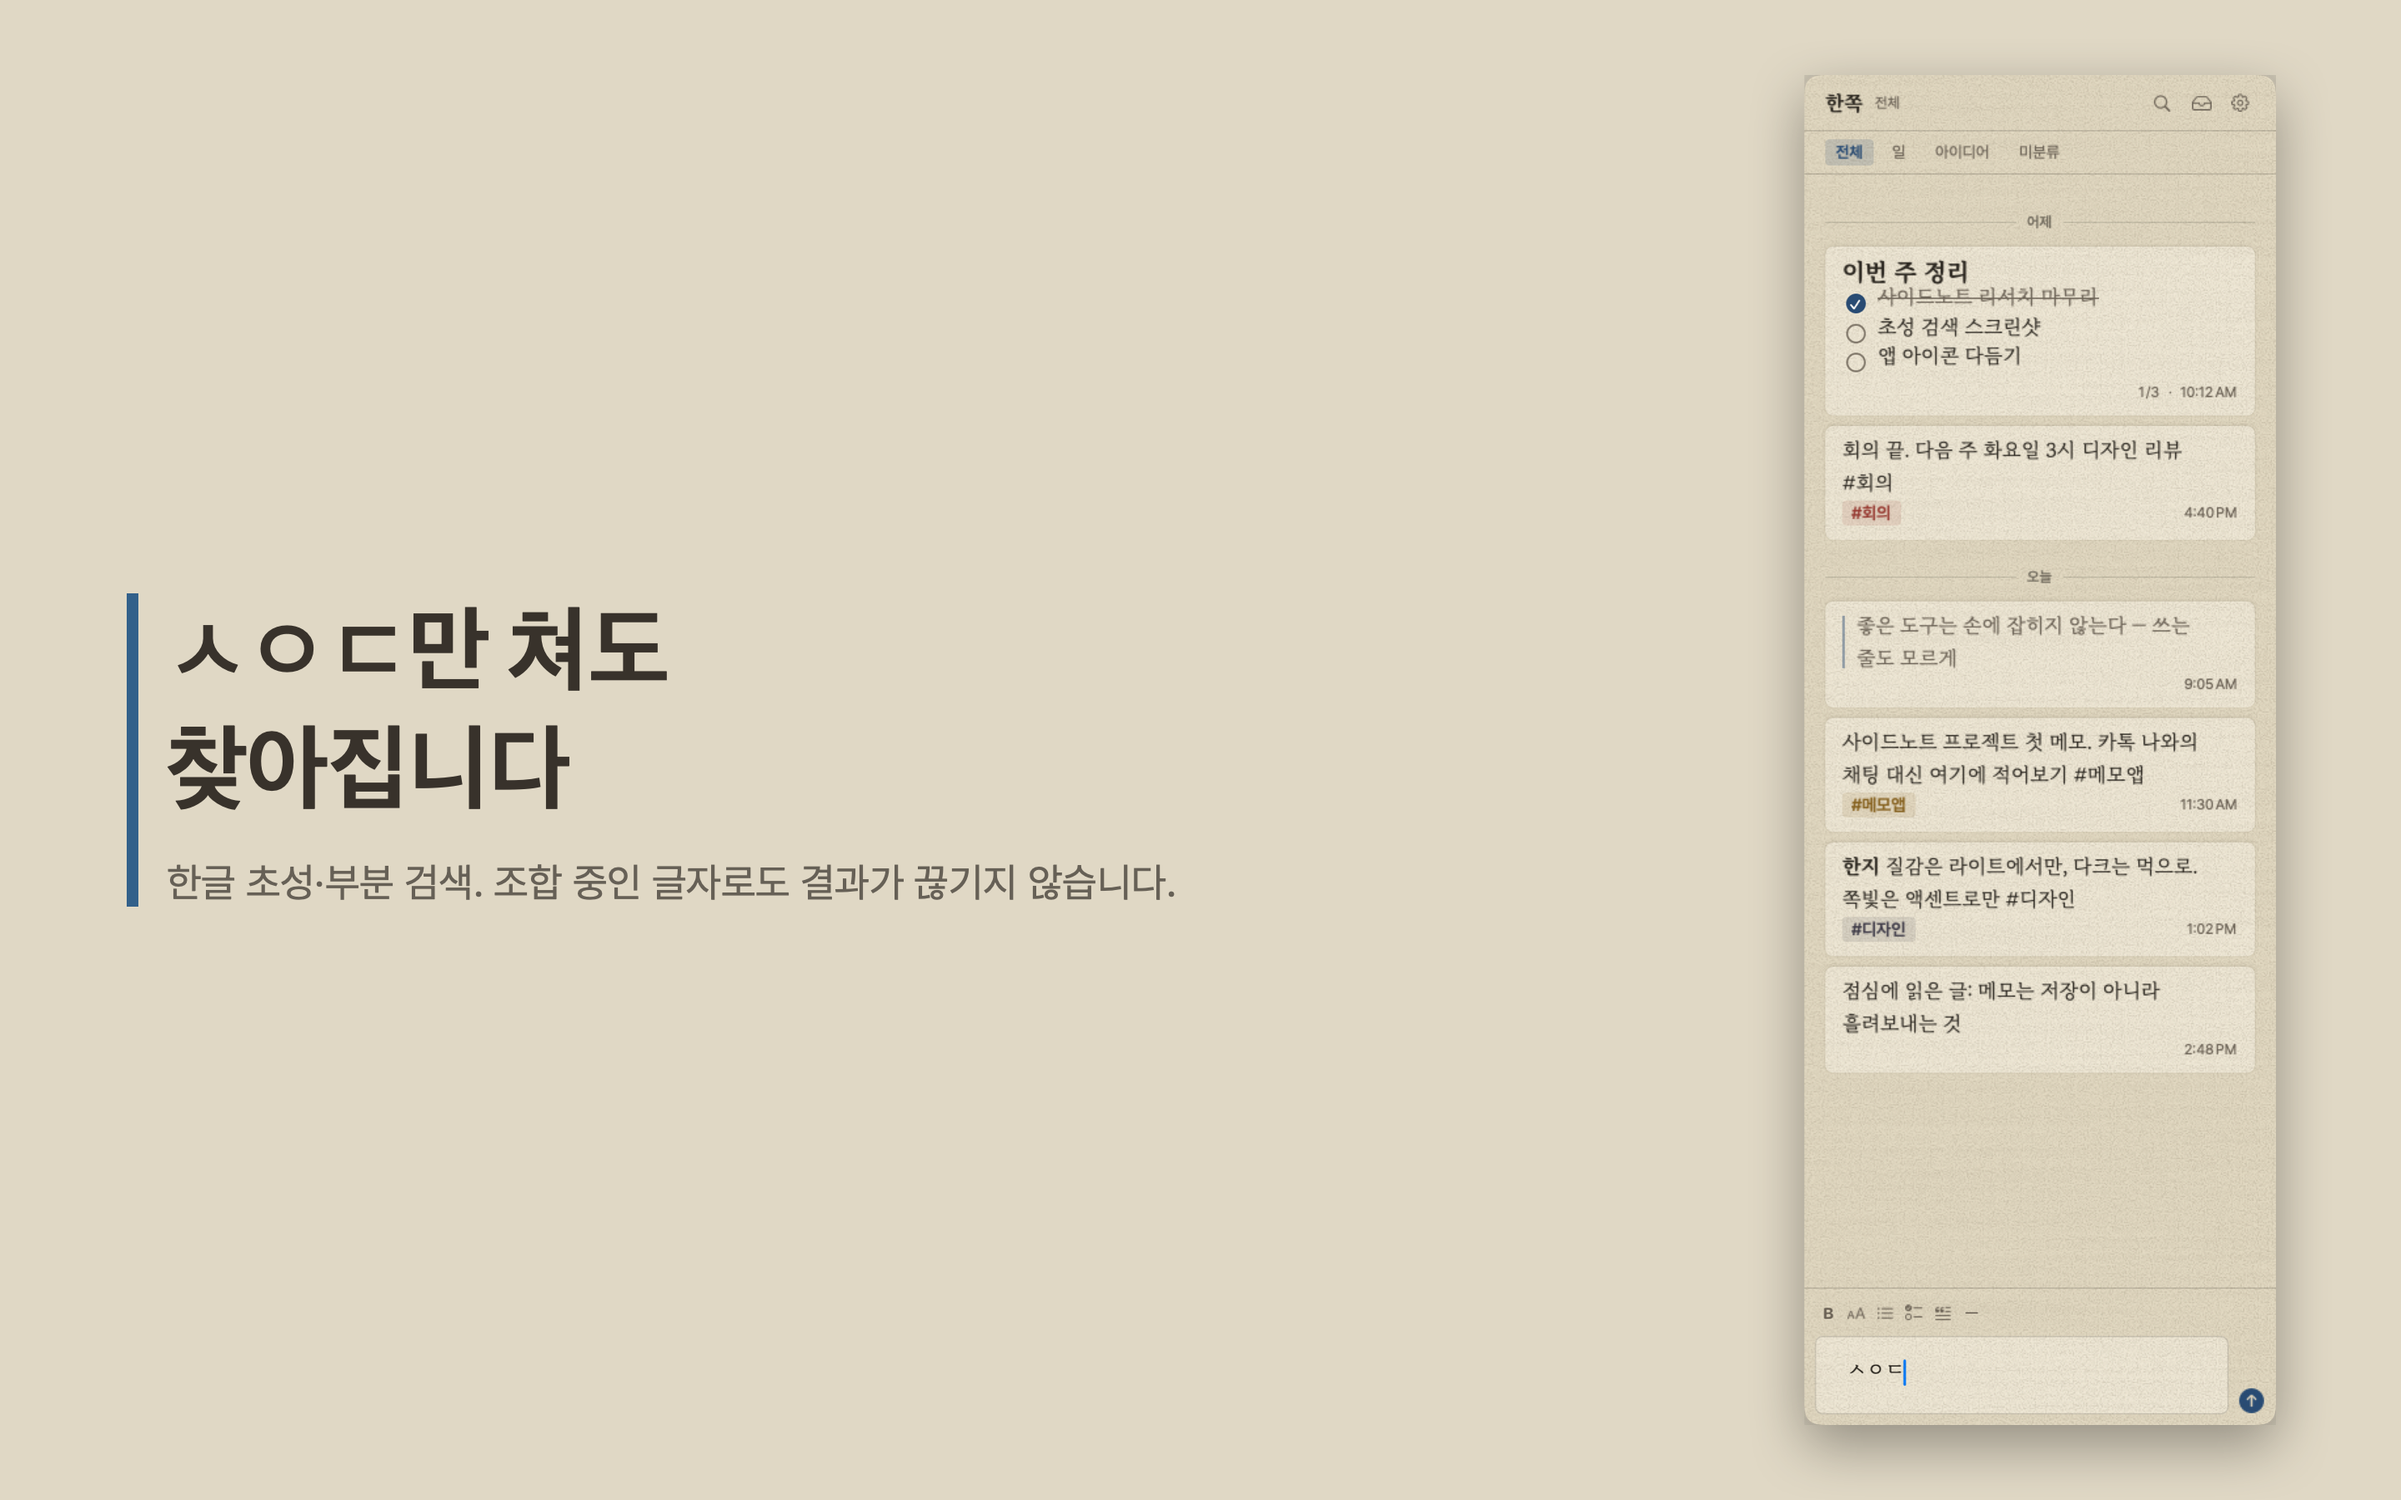
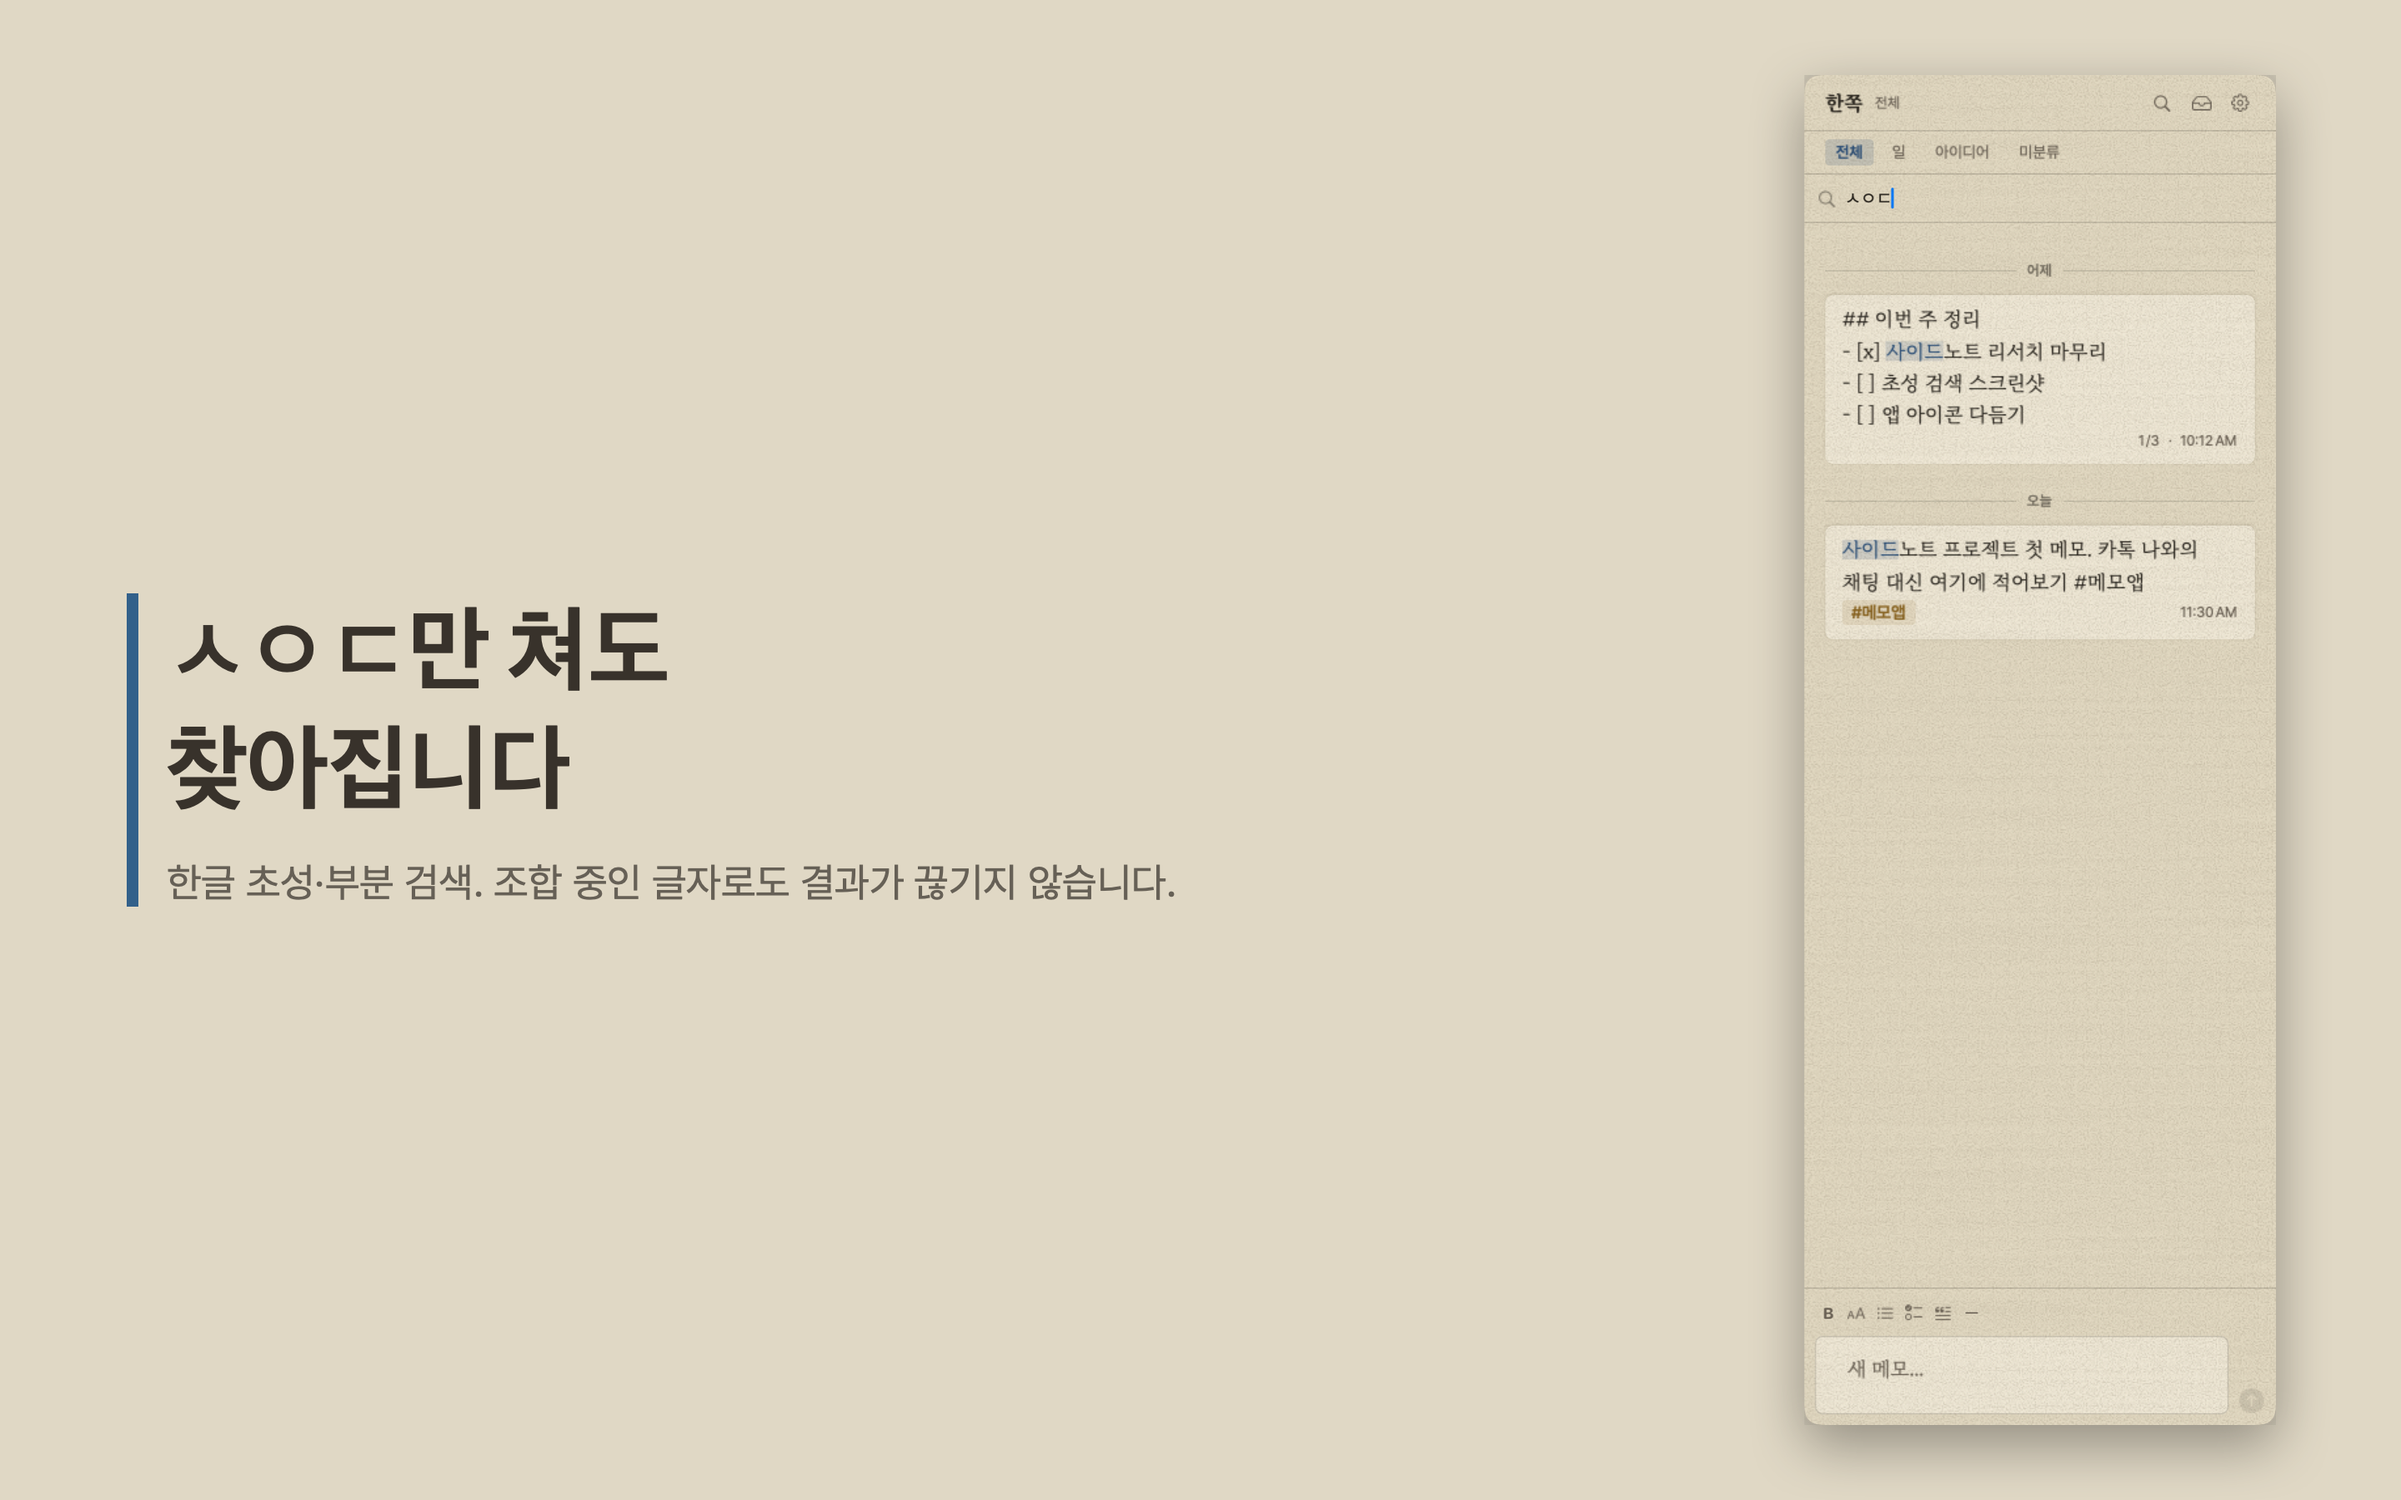
fix: 검색 스크린샷 재촬영 — 합성 ⌘F에 문자 명시(한글 입력기 시 자모로 오인되던 문제)
Claude-Session: https://claude.ai/code/session_01AusHNggDQ6gvH7YMfaZfFq

diff --git a/tools/screenshots/keys.swift b/tools/screenshots/keys.swift
@@ -1,7 +1,9 @@
 import AppKit
 // 특정 프로세스에만 키 이벤트를 꽂는다 (활성화 불필요, 다른 앱엔 절대 전달 안 됨)
 // usage: swift keys.swift <pid> text "<string>"
-//        swift keys.swift <pid> key <keycode> [cmd] [shift]
+//        swift keys.swift <pid> key <keycode> [cmd] [shift] [chars=f]
+//        단축키는 chars= 로 문자를 명시할 것 — 비우면 현재 입력기(한글)로 문자가 채워져
+//        SwiftUI KeyEquivalent 매칭에 실패하고 텍스트뷰에 자모가 입력된다.
 let a = CommandLine.arguments
 let pid = pid_t(a[1])!
 let src = CGEventSource(stateID: .hidSystemState)
@@ -19,8 +21,10 @@ if a[2] == "text" {
     var f: CGEventFlags = []
     if a.contains("cmd") { f.insert(.maskCommand) }
     if a.contains("shift") { f.insert(.maskShift) }
-    let d = CGEvent(keyboardEventSource: src, virtualKey: code, keyDown: true)!; d.flags = f; d.postToPid(pid)
-    usleep(20000)
-    let x = CGEvent(keyboardEventSource: src, virtualKey: code, keyDown: false)!; x.flags = f; x.postToPid(pid)
+    let chars = a.first(where: { $0.hasPrefix("chars=") }).map { String($0.dropFirst(6)) }
+    let d = CGEvent(keyboardEventSource: src, virtualKey: code, keyDown: true)!; d.flags = f
+    let x = CGEvent(keyboardEventSource: src, virtualKey: code, keyDown: false)!; x.flags = f
+    if let c = chars { var u = Array(c.utf16); d.keyboardSetUnicodeString(stringLength: u.count, unicodeString: &u); x.keyboardSetUnicodeString(stringLength: u.count, unicodeString: &u) }
+    d.postToPid(pid); usleep(20000); x.postToPid(pid)
 }
 usleep(50000)
